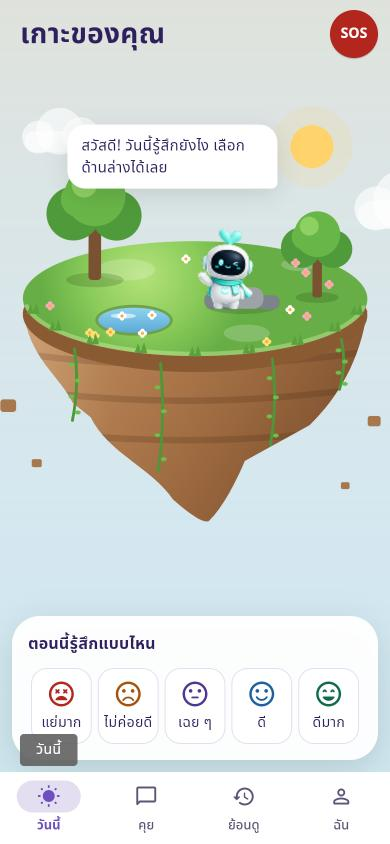
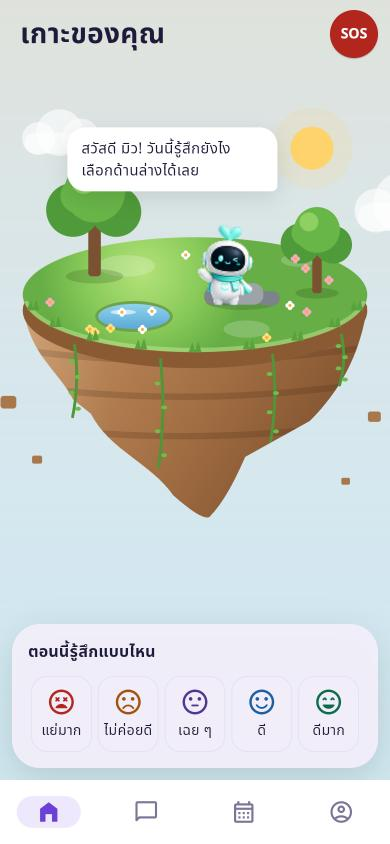
Landing: refresh check-in, SOS and Me screenshots

diff --git a/index.html b/index.html
@@ -53,8 +53,8 @@ small{color:var(--muted)}
 <figure><img src="assets/1-checkin.jpg" alt="หน้าวันนี้: เกาะลอยฟ้าพร้อมมาสคอตและปุ่มเลือกอารมณ์"><figcaption>เช็กอินอารมณ์ในไม่กี่วินาที</figcaption></figure>
 <figure><img src="assets/2-today.jpg" alt="หลังเช็กอิน: อากาศบนเกาะเปลี่ยนตามอารมณ์ และมีสิ่งเล็ก ๆ ให้ลองทำ"><figcaption>เกาะเปลี่ยนตามใจ พร้อมสิ่งเล็ก ๆ ให้ลองทำ</figcaption></figure>
 <figure><img src="assets/3-chat.jpg" alt="แชทกับ ReJoy ที่ตอบด้วย AI และแนะนำให้ฝึกหายใจ"><figcaption>คุยกับ ReJoy ด้วย AI ที่มีระบบความปลอดภัย</figcaption></figure>
-<figure><img src="assets/4-sos.png" alt="หน้า SOS: สายด่วน 1323, 1669, ฝึกสติ และโรงพยาบาลใกล้ตัว"><figcaption>SOS: สายด่วน ฝึกสติ โรงพยาบาลใกล้ตัว</figcaption></figure>
-<figure><img src="assets/5-privacy.png" alt="แท็บฉัน: ขนาดตัวอักษร ล็อกด้วย PIN และการยินยอมใช้ AI"><figcaption>ข้อมูลอยู่ในเครื่อง ล็อกด้วย PIN ได้</figcaption></figure>
+<figure><img src="assets/4-sos.jpg" alt="หน้า SOS: สายด่วน 1323, 1669, ฝึกสติ และโรงพยาบาลใกล้ตัว"><figcaption>SOS: สายด่วน ฝึกสติ โรงพยาบาลใกล้ตัว</figcaption></figure>
+<figure><img src="assets/5-privacy.jpg" alt="แท็บฉัน: ขนาดตัวอักษร ล็อกด้วย PIN และการยินยอมใช้ AI"><figcaption>ข้อมูลอยู่ในเครื่อง ล็อกด้วย PIN ได้</figcaption></figure>
 </div>
 
 <div class="card">
